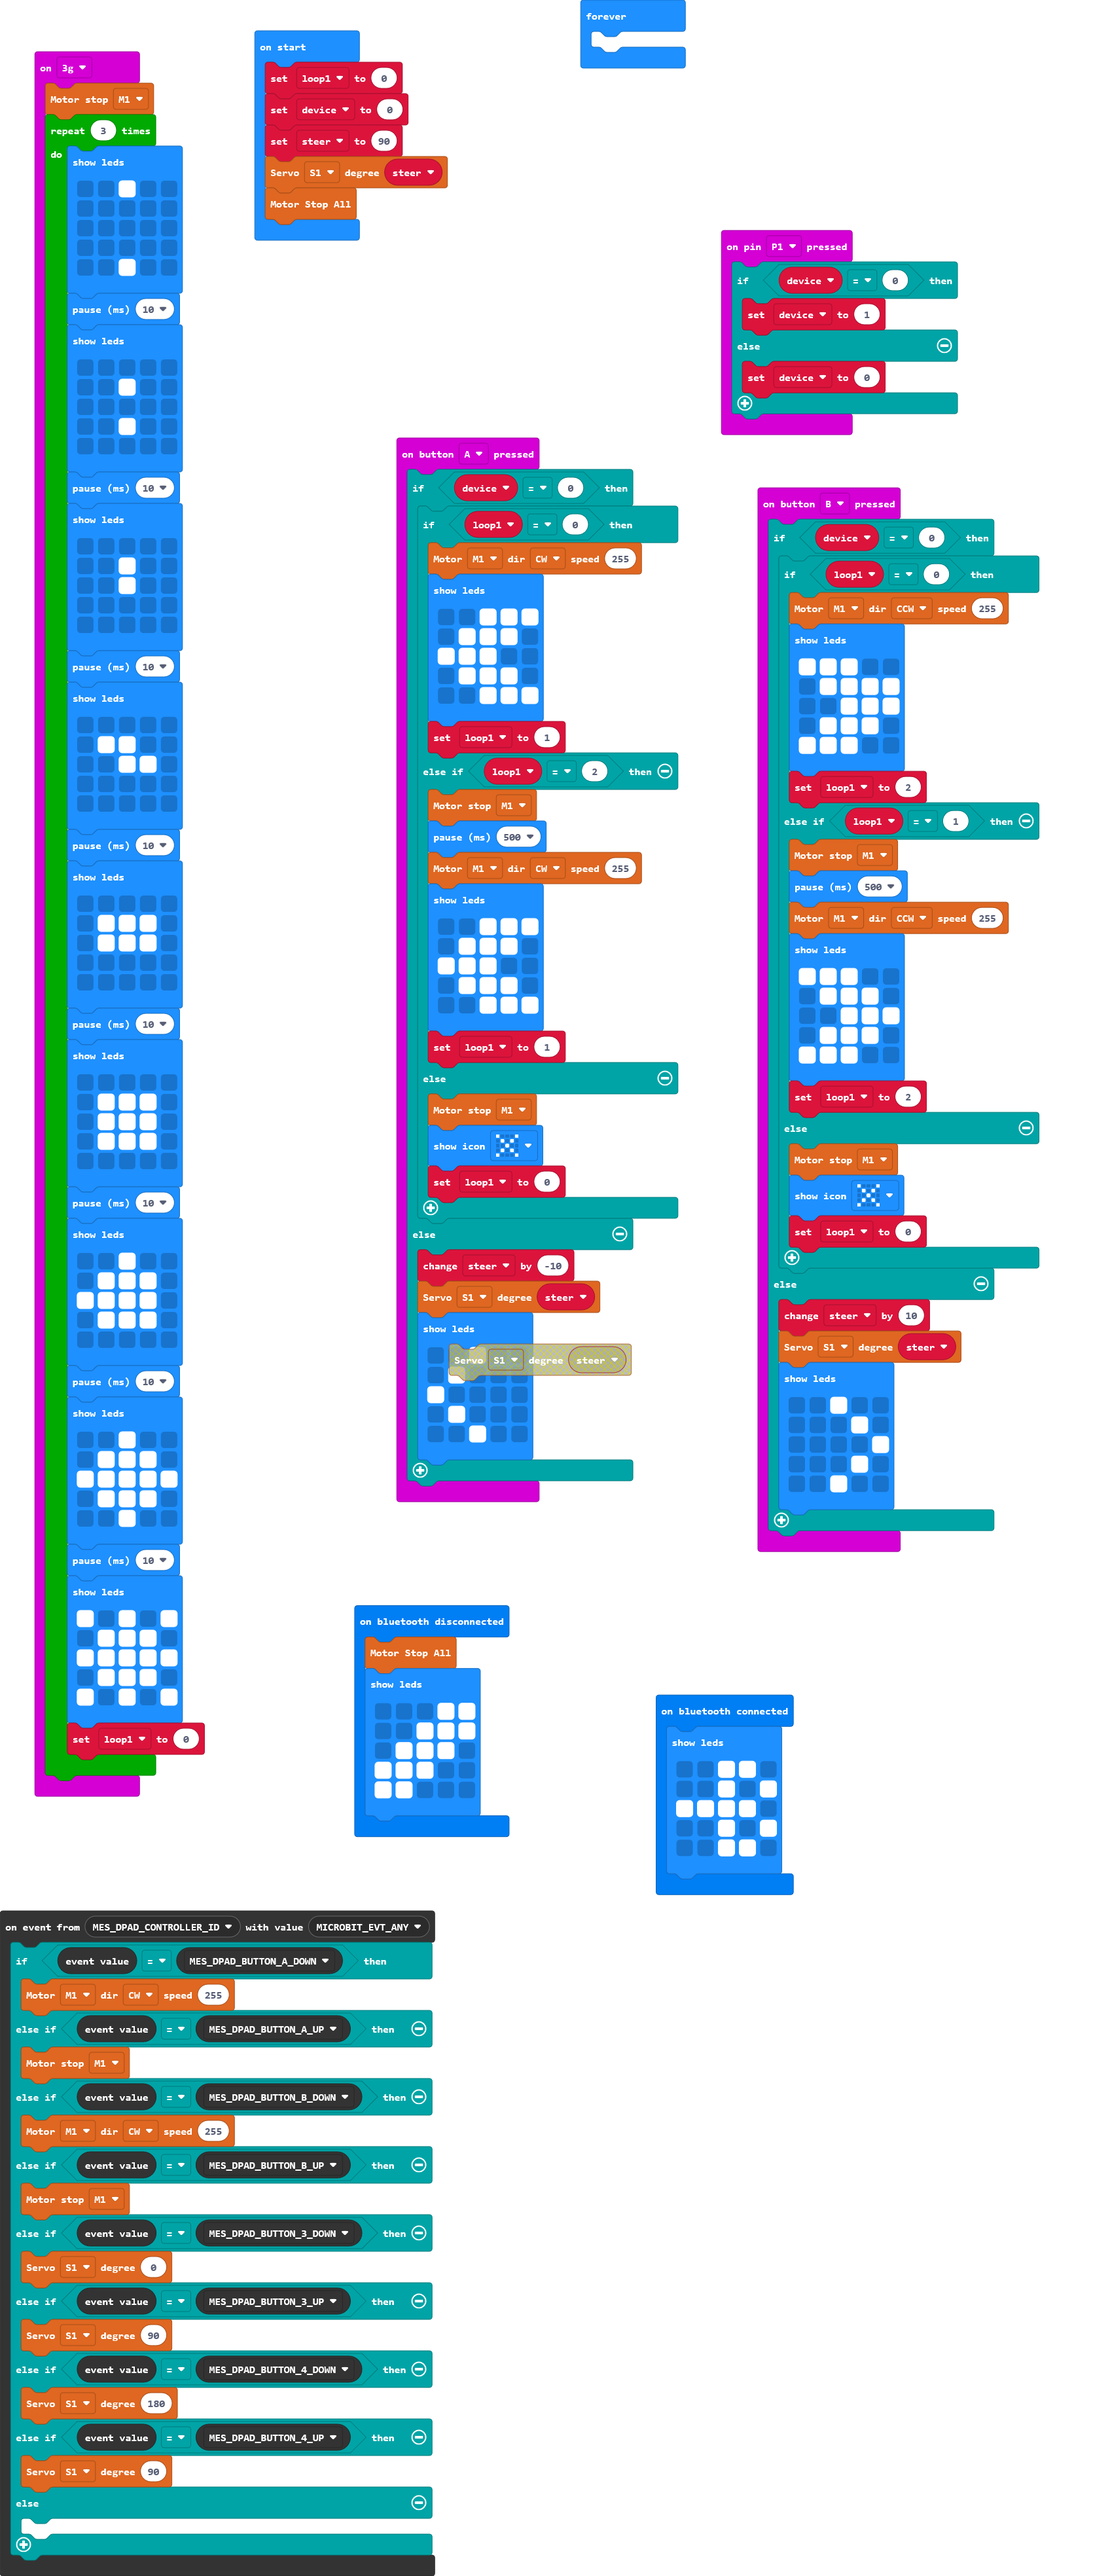
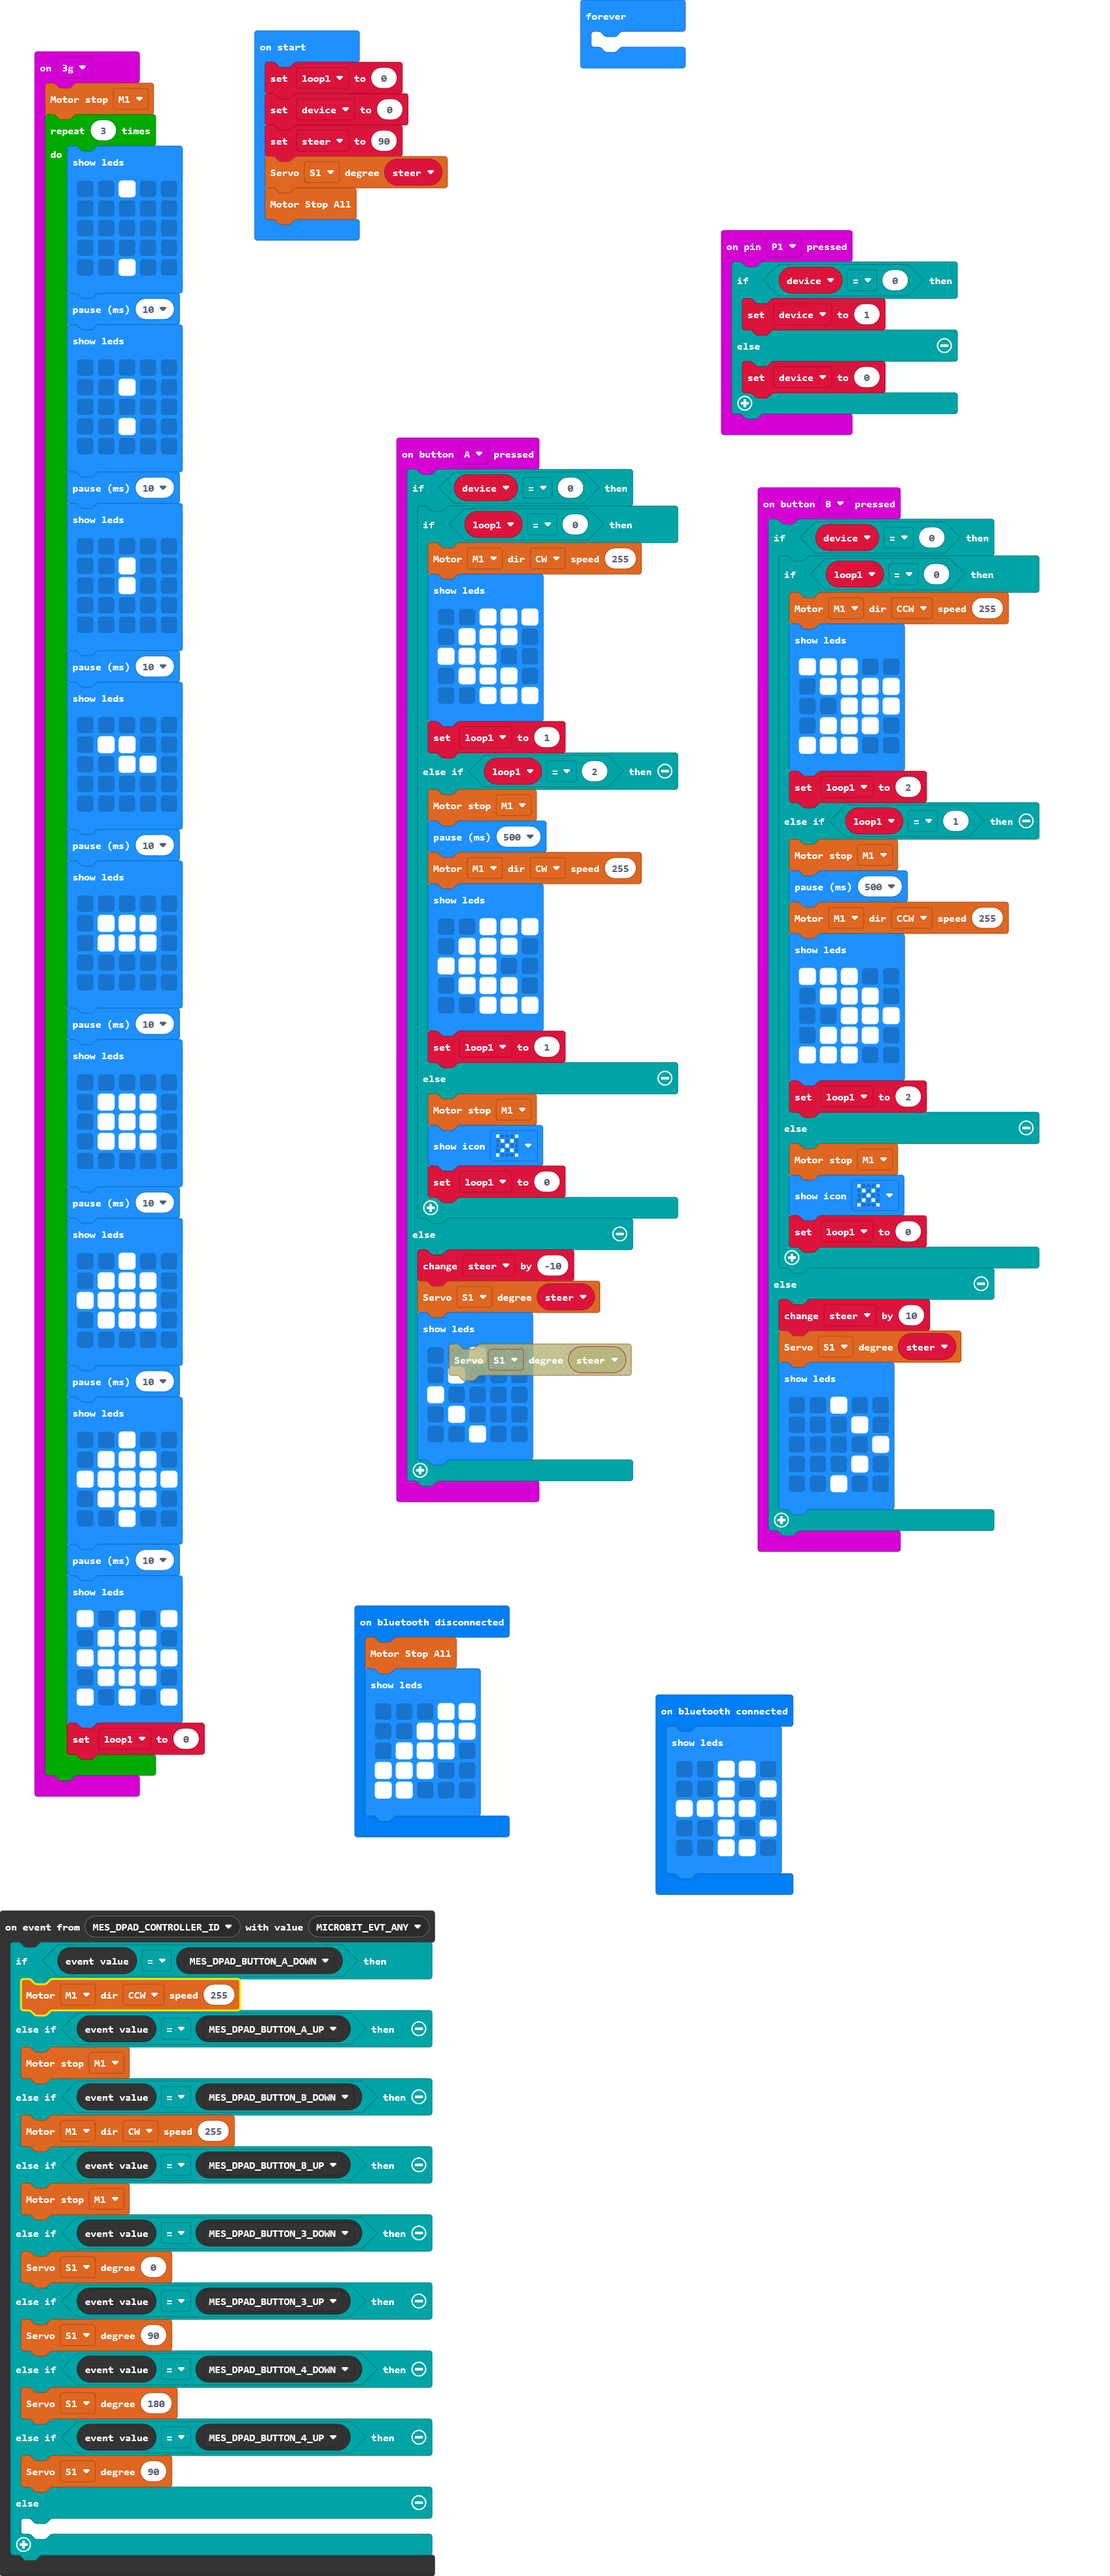
Update main.blocks, main.ts

Changed region(s): [[0.1875, 0.7441, 0.2188, 0.8061]]

diff --git a/main.ts b/main.ts
@@ -108,7 +108,7 @@ input.onPinPressed(TouchPin.P1, function () {
 })
 control.onEvent(EventBusSource.MES_DPAD_CONTROLLER_ID, EventBusValue.MICROBIT_EVT_ANY, function () {
     if (control.eventValue() == EventBusValue.MES_DPAD_BUTTON_A_DOWN) {
-        motor.MotorRun(motor.Motors.M1, motor.Dir.CW, 255)
+        motor.MotorRun(motor.Motors.M1, motor.Dir.CCW, 255)
     } else if (control.eventValue() == EventBusValue.MES_DPAD_BUTTON_A_UP) {
         motor.motorStop(motor.Motors.M1)
     } else if (control.eventValue() == EventBusValue.MES_DPAD_BUTTON_B_DOWN) {
